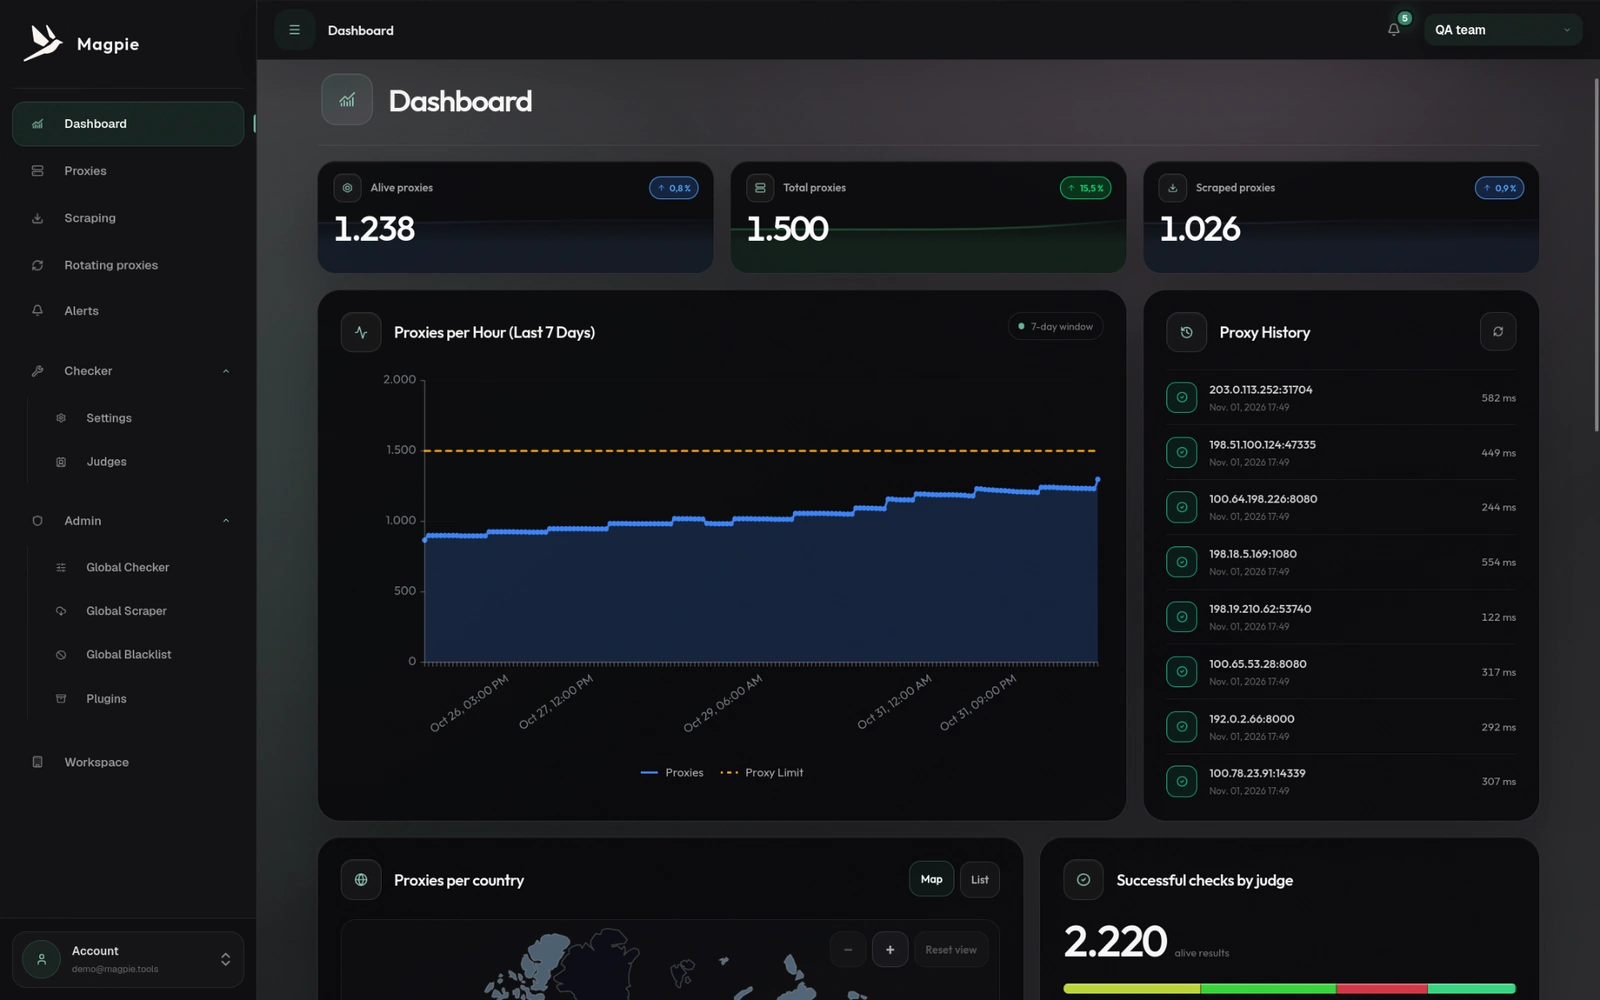
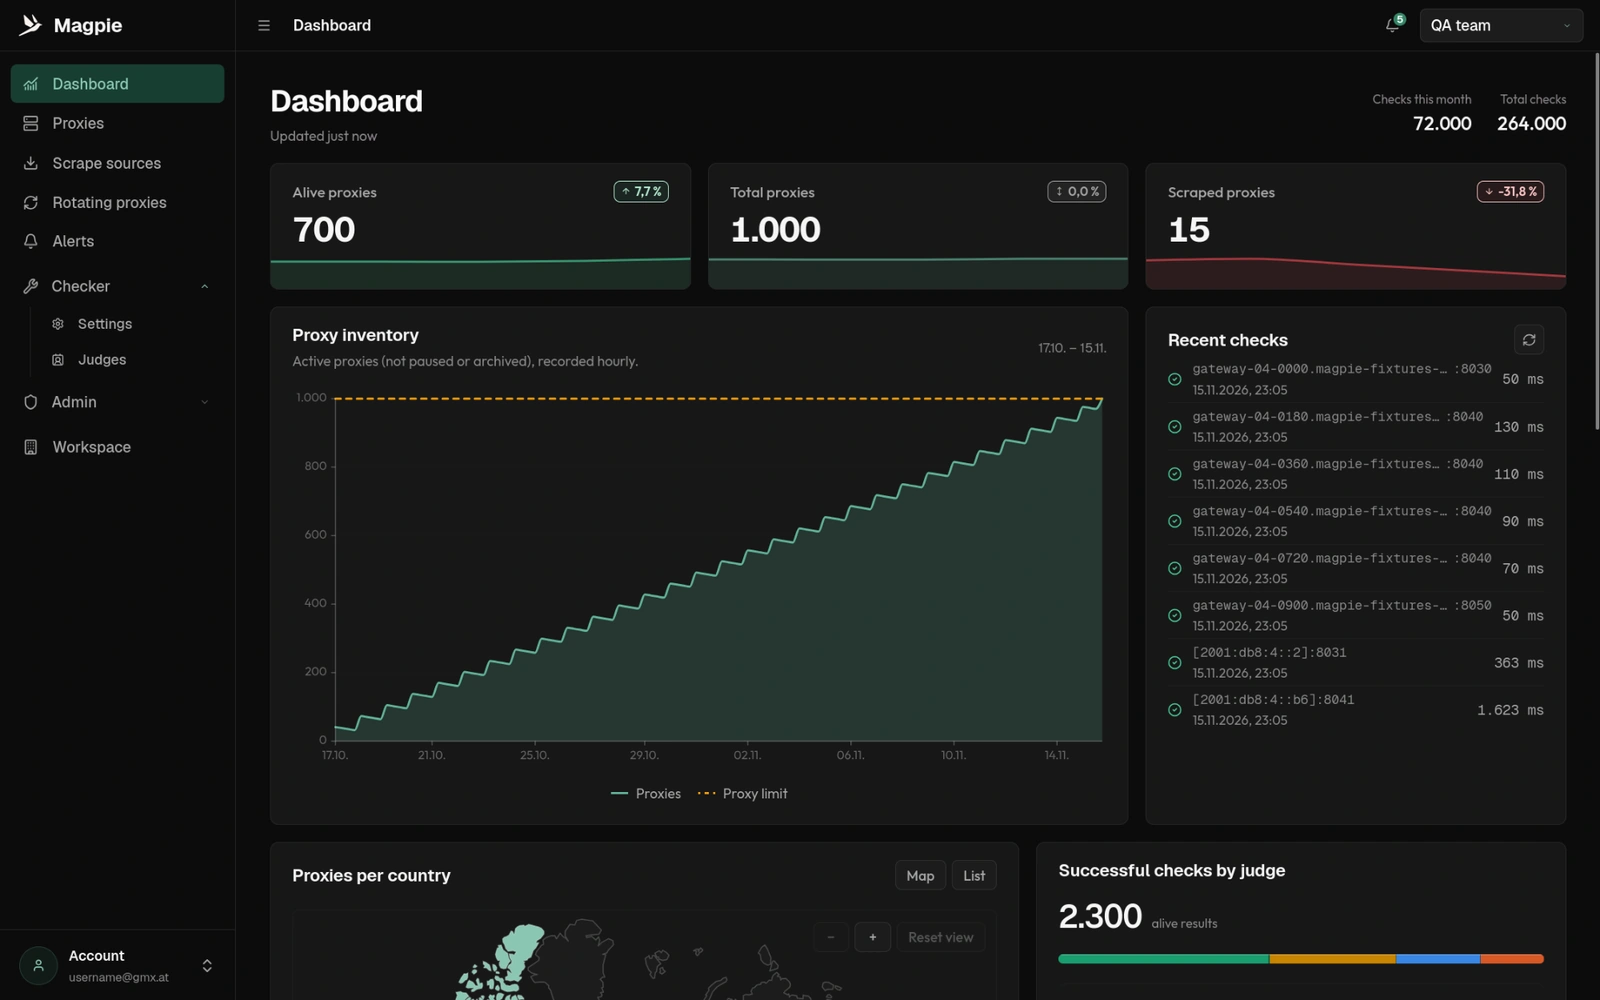
Refresh product screenshots for the Console design
Show the current dashboard, proxy list, proxy details, workspace
allowances, and alert destinations in the screens section. Remove the
add proxies and scrape source screenshots. The webp files are encoded at
quality 95 like the previous set.

diff --git a/src/sections/Screens.tsx b/src/sections/Screens.tsx
@@ -2,11 +2,11 @@ import { useState, type KeyboardEvent } from 'react';
 import Frame from '../components/Frame';
 
 const SCREENS = [
-  { id: 'dashboard', label: 'dashboard', alt: 'Magpie dashboard with alive, total, and scraped proxy counts, a proxies per hour chart against the proxy limit, and recent check history' },
-  { id: 'proxy-list', label: 'proxies', alt: 'Magpie proxy list with status, tags, response time, type, country, reputation, and last check columns' },
-  { id: 'add-proxies', label: 'import', alt: 'Magpie add proxies dialog with tags, paste and file import, and an import summary' },
-  { id: 'scrape-sources', label: 'scraping', alt: 'Magpie scrape sources with proxy counts, alive proxies, health bars, and scrape status per source' },
-  { id: 'alerts', label: 'alerts', alt: 'Magpie alert rules with an open latency incident, pool capacity status, and a form for adding a rule' },
+  { id: 'dashboard', label: 'dashboard', alt: 'Magpie dashboard with alive, total, and scraped proxy counts, a proxy inventory chart against the proxy limit, and recent checks' },
+  { id: 'proxy-list', label: 'proxies', alt: 'Magpie proxy list with status, tags, latency, type, country, reputation, and last check columns' },
+  { id: 'proxy-details', label: 'details', alt: 'Magpie proxy details with hourly response times, an hourly availability grid, network and connection details, and a reputation score' },
+  { id: 'workspace', label: 'workspace', alt: 'Magpie workspace overview with monthly check and scrape allowance usage, a projected usage chart, plan details, and route capacity' },
+  { id: 'alerts', label: 'alerts', alt: 'Magpie alert destinations for Discord, Slack, webhook, and email' },
 ] as const;
 
 export default function Screens() {
